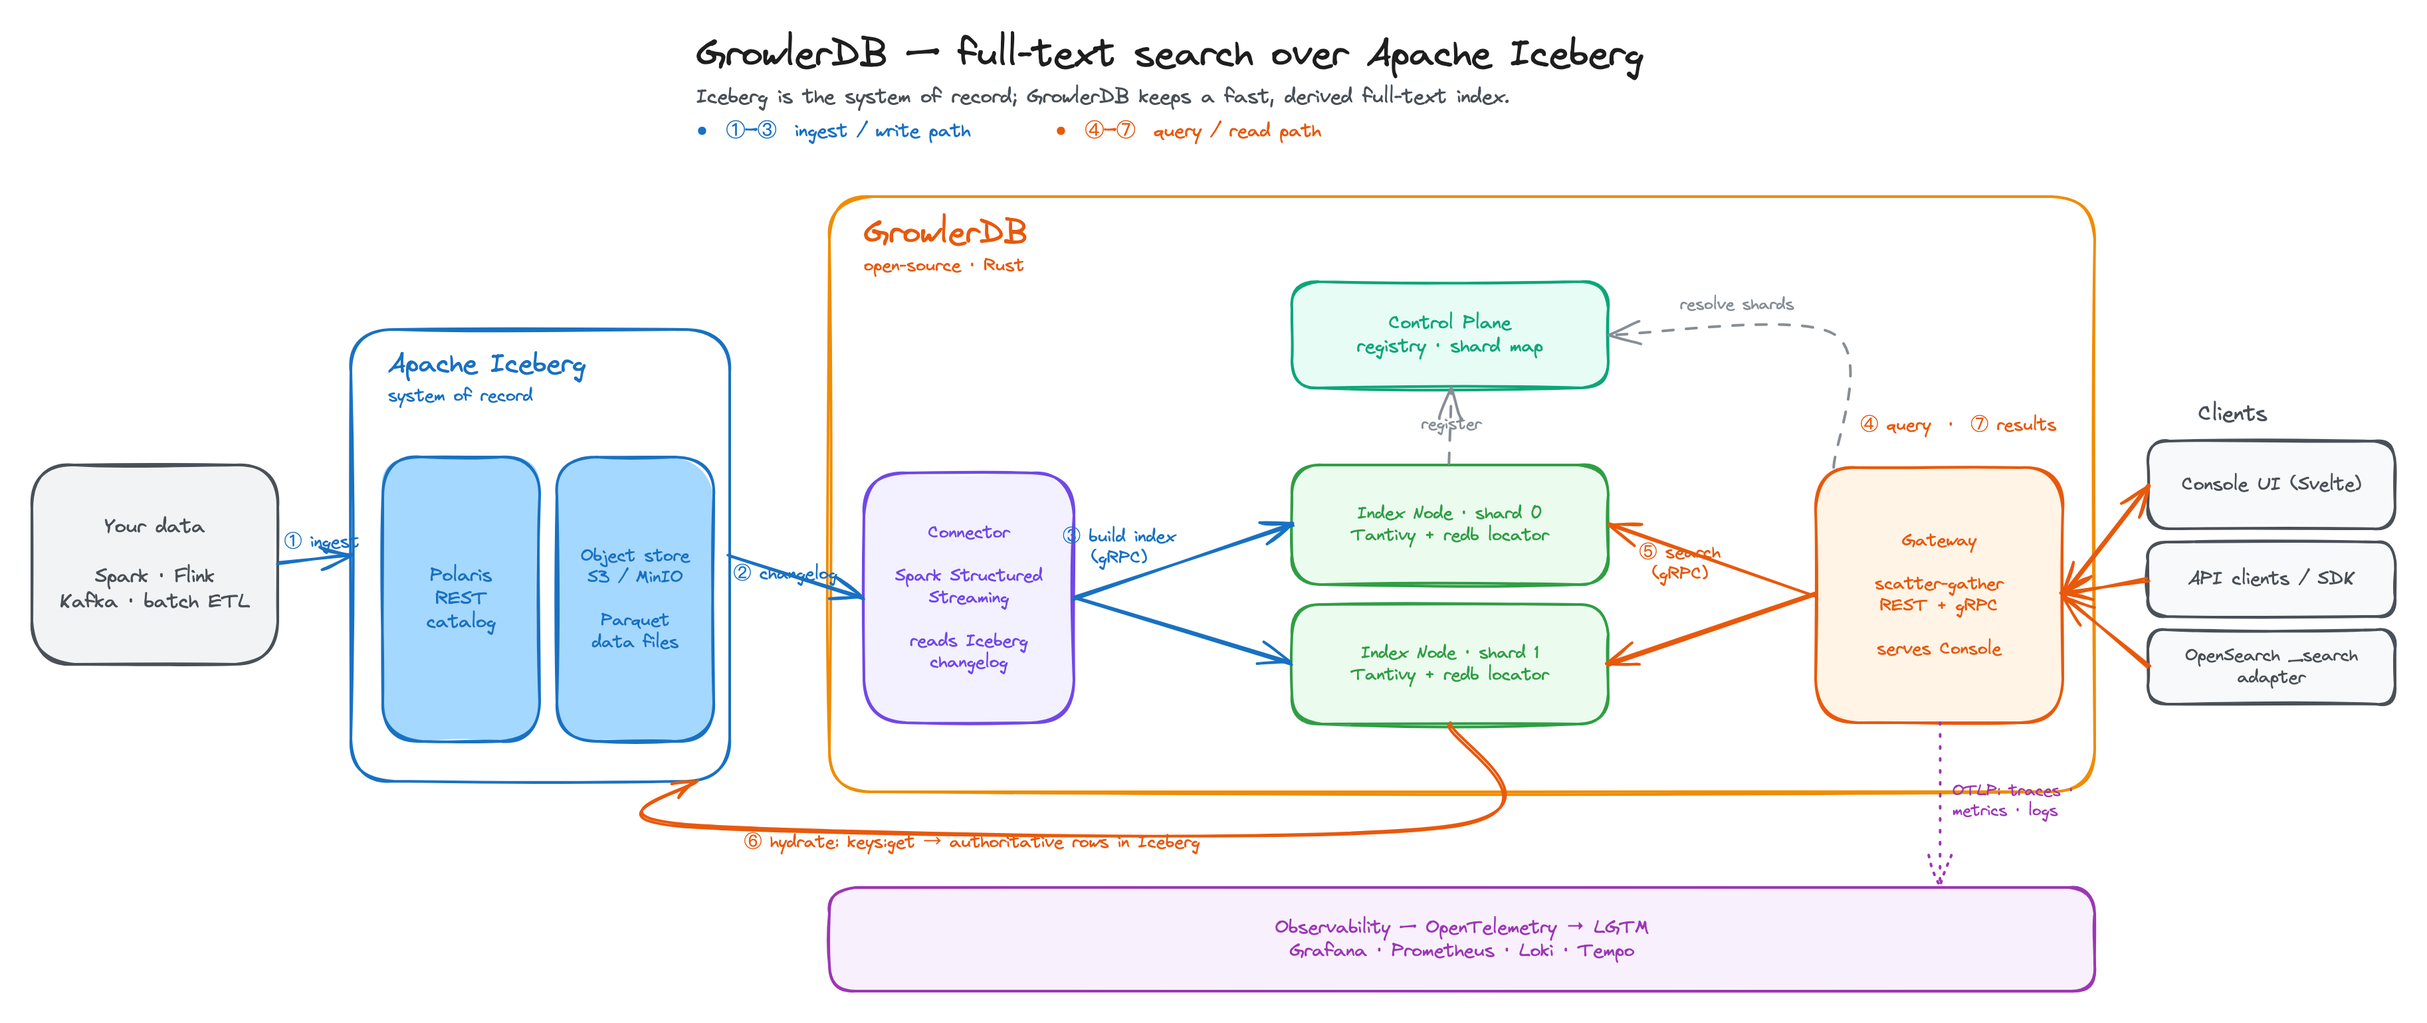
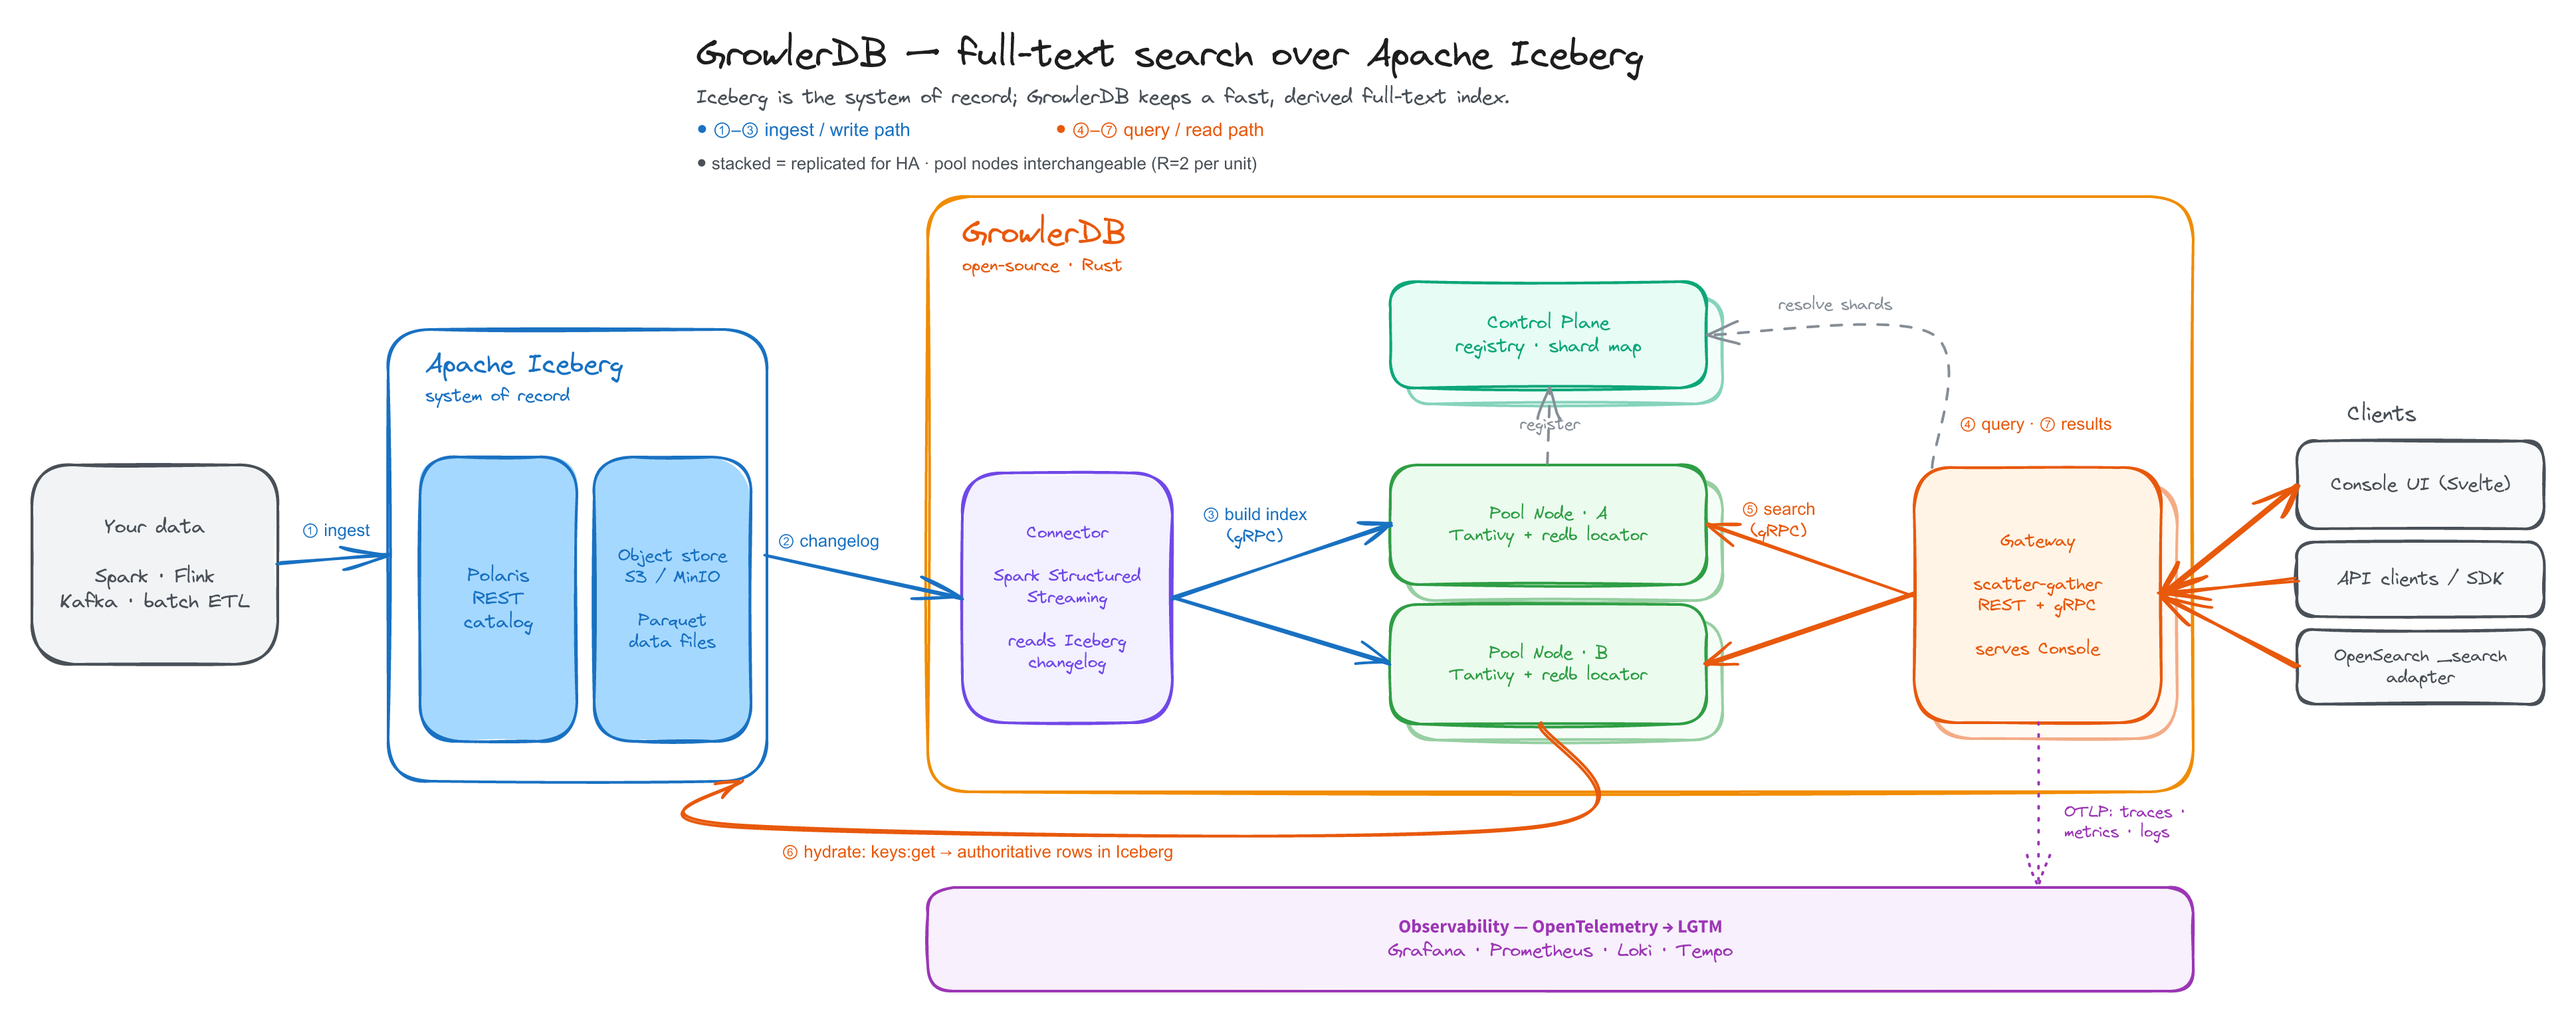
docs(readme): refresh architecture diagram for the HA pool + redundancy
Update the architecture diagram to reflect node pooling (Pool Node A/B)
and component redundancy (replicated control plane, gateway, pool nodes),
widen the inter-box spacing so connector labels no longer overlap, and
refresh the README caption + "How it works" for the placement pool,
per-unit replication (R=2), and zero-gap read failover.

diff --git a/README.md b/README.md
@@ -98,22 +98,26 @@ just stack-down
 
 ## How it works
 
-![GrowlerDB architecture — your data lands in Apache Iceberg (the system of record); the Spark Structured Streaming connector reads the Iceberg changelog and streams batches to index nodes that build Tantivy segments; a client query hits the gateway, which scatter-gathers across shard nodes and hydrates the ranked keys back to authoritative Iceberg rows](docs/img/architecture.png)
+![GrowlerDB architecture — your data lands in Apache Iceberg (the system of record); the Spark Structured Streaming connector reads the Iceberg changelog and streams batches to a high-availability pool of interchangeable nodes that build Tantivy segments, each unit replicated (R=2); a client query hits the gateway, which scatter-gathers across the pool — failing reads over to a replica if a node is down — and hydrates the ranked keys back to authoritative Iceberg rows. The control plane and gateway run replicated too.](docs/img/architecture.png)
 
 GrowlerDB sits between your **Apache Iceberg** tables and your users. Iceberg stays the **system of
 record**; GrowlerDB maintains a fast, derived index and resolves matches back to the authoritative
 rows over two paths:
 
 - **Ingest** — the **Connector** (Spark Structured Streaming) reads the Iceberg changelog and streams
-  document batches over gRPC to **index nodes**, which build local **Tantivy** segments with a **redb**
-  locator (key → file + row position).
+  document batches over gRPC to the **pool**, whose nodes build local **Tantivy** segments with a
+  **redb** locator (key → file + row position).
 - **Query** — a client (Console, SDK, or the OpenSearch `_search` adapter) calls the **Gateway**,
-  which scatter-gathers across shard nodes, merges the top-K into ranked **coordinates** (primary
-  keys), and **hydrates** them back to authoritative rows from Iceberg.
+  which scatter-gathers across the pool, merges the top-K into ranked **coordinates** (primary keys),
+  and **hydrates** them back to authoritative rows from Iceberg.
 
-A **Control Plane** is the routing source of truth (nodes register; the Gateway resolves shards), and
-every service emits **OpenTelemetry** to the bundled **LGTM** stack (Grafana · Prometheus · Loki ·
-Tempo).
+**Highly available by default.** Serving runs on a **placement pool** of interchangeable nodes: the
+**Control Plane** distributes each index's units across the pool with a **replication factor** (one
+primary + read replicas), so a node loss is a **zero-gap read failover** — the gateway routes reads to
+a live replica and the pool self-heals. You point N identical nodes at the pool and the control plane
+does the placement; there is no per-node designation. The control plane itself runs as **N replicas**
+and the gateway is **stateless and replicated**, so no component is a single point of failure. Every
+service emits **OpenTelemetry** to the bundled **LGTM** stack (Grafana · Prometheus · Loki · Tempo).
 
 Full walkthrough: **[system architecture](okf/system/architecture.md)** · [deployment topologies](https://docs.growlerdb.com/deployment)
 
